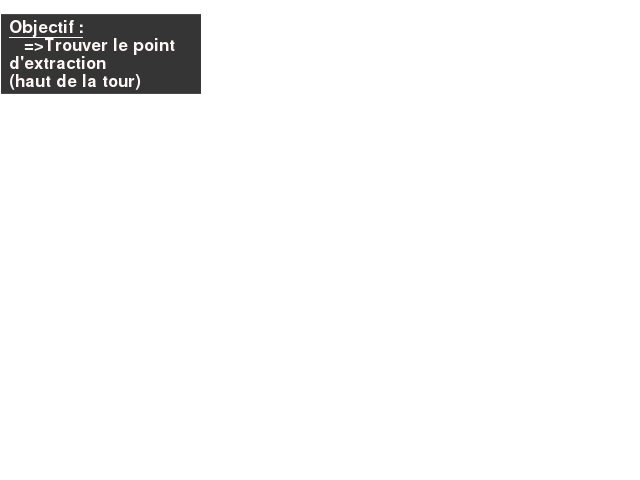
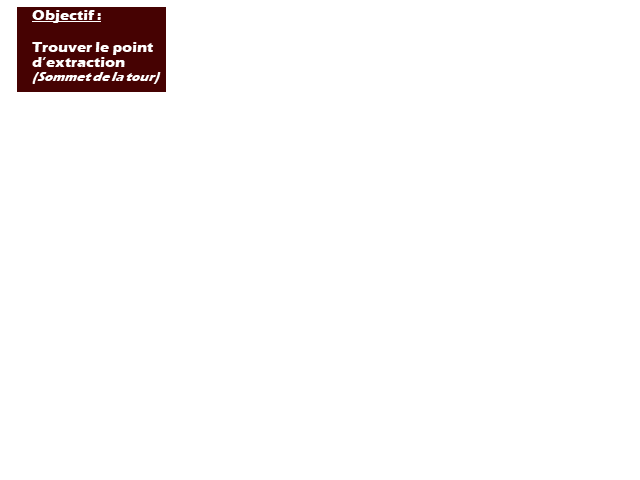
Auto stash before revert of "Merge remote-tracking branch 'origin/new_monsters_model' into new_monsters_model"
Add menu

Changed region(s): [[0.0, 0.0, 0.3125, 0.2188]]

diff --git a/src/main.cpp b/src/main.cpp
@@ -61,9 +61,10 @@ void moveCameraControl(IrrlichtDevice *device,
 
     }
 }
-static void create_window_pnj_follow()
+static void create_window_pnj_follow(EventReceiver *receiver,ig::IGUIImage *objectif,iv::ITexture *objectif2_tex)
 {
-
+    receiver->show_menu = 2;
+    objectif->setImage(objectif2_tex);
 }
 
 static bool mission_reussie(pnj& pnj)
@@ -214,6 +215,7 @@ int main()
     iv::ITexture *gameover_screen_tex = driver->getTexture("../data/gameover_screen.png");
     iv::ITexture *objectif1_tex = driver->getTexture("../data/objectif1.png");
     iv::ITexture *objectif2_tex = driver->getTexture("../data/objectif2.png");
+    iv::ITexture *menu_tex = driver->getTexture("../data/first_menu.png");
 
 
     // Création des places pour les chiffres
@@ -229,7 +231,9 @@ int main()
 
 
     ig::IGUIImage *bloody_screen   = gui->addImage(ic::rect<s32>(0,0, WIDTH_WINDOW,HEIGHT_WINDOW)); bloody_screen->setScaleImage(true);
-    ig::IGUIImage *objectif   = gui->addImage(ic::rect<s32>(0,0, WIDTH_WINDOW,HEIGHT_WINDOW)); bloody_screen->setScaleImage(true);
+    ig::IGUIImage *objectif   = gui->addImage(ic::rect<s32>(0,0, WIDTH_WINDOW,HEIGHT_WINDOW)); objectif->setScaleImage(true);
+    ig::IGUIImage *menu   = gui->addImage(ic::rect<s32>(0,0, WIDTH_WINDOW,HEIGHT_WINDOW)); menu->setScaleImage(true);
+
 
     //create_GUI_munition(gui,munition_10,munition_1,stock_10,stock_1,slash);
 
@@ -340,163 +344,184 @@ int main()
 
     while(device->run())
     {
-        for(u32 i = 0; i<NB_ENEMY_MAX; i++){
-            enemies[i].handle_walking();
-        }
-
-        //set image for the "viseur"
-
-       ig::IGUIImage *scope = gui->addImage(ic::rect<s32>(driver->getScreenSize().Width/2 -15,driver->getScreenSize().Height/2-15,  driver->getScreenSize().Width/2+15,driver->getScreenSize().Height/2+15)); scope->setScaleImage(true);
-
-        scope->setImage(scope_tex);
-        if(main_character.getReloading_cooldown()>0 || main_character.get_nb_munition() == 0){
-            scope_tex= driver->getTexture("../data/scope_not.png");
-        }
-        else{
-            scope_tex= driver->getTexture("../data/scope.png");
-
-        }
-
-        is_attacking(main_character, textures, receiver, compteur_attack);
-        if(main_character.getHealth_point() != 0)
-        {
-            moveCameraControl(device,main_character.body, receiver);
-            receiver.keyboard_handler(false, follow);
-        }
-        else
-            receiver.keyboard_handler(true, follow);
-
         driver->beginScene(true, true, iv::SColor(100,150,200,255));
-        if(!main_character.is_reloading()){
-            int mouse_x, mouse_y;
-            if (receiver.is_mouse_pressed(mouse_x, mouse_y))
+
+        if(receiver.show_menu == 0){
+            menu->setVisible(false);
+            for(u32 i = 0; i<NB_ENEMY_MAX; i++){
+                enemies[i].handle_walking();
+            }
+
+            //set image for the "viseur"
+
+            ig::IGUIImage *scope = gui->addImage(ic::rect<s32>(driver->getScreenSize().Width/2 -15,driver->getScreenSize().Height/2-15,  driver->getScreenSize().Width/2+15,driver->getScreenSize().Height/2+15)); scope->setScaleImage(true);
+
+            scope->setImage(scope_tex);
+            if(main_character.getReloading_cooldown()>0 || main_character.get_nb_munition() == 0){
+                scope_tex= driver->getTexture("../data/scope_not.png");
+            }
+            else{
+                scope_tex= driver->getTexture("../data/scope.png");
+
+            }
+
+            is_attacking(main_character, textures, receiver, compteur_attack);
+            if(main_character.getHealth_point() != 0)
             {
-                if (receiver.button_pressed != last_attack && receiver.button_pressed == true)
-                    attack_one_tic = true;
-                if(attack_one_tic && main_character.get_nb_munition() > 0)
+                moveCameraControl(device,main_character.body, receiver);
+                receiver.keyboard_handler(false, follow);
+            }
+            else
+                receiver.keyboard_handler(true, follow);
+
+            if(!main_character.is_reloading()){
+                int mouse_x, mouse_y;
+                if (receiver.is_mouse_pressed(mouse_x, mouse_y))
                 {
-                    ic::line3d<f32> ray;
-                    ray = collision_manager->getRayFromScreenCoordinates(ic::position2d<s32>(mouse_x, mouse_y));
-                    ic::vector3df intersection;
-                    ic::triangle3df hit_triangle;
-                    is::ISceneNode *selected_scene_node =
-                            collision_manager->getSceneNodeAndCollisionPointFromRay(
-                                ray,
-                                intersection, // On récupère ici les coordonnées 3D de l'intersection
-                                hit_triangle, // et le triangle intersecté
-                                0); // On ne veut que des noeuds avec cet identifiant
-                    const u32 selected_scene_node_id = selected_scene_node->getID();
+                    if (receiver.button_pressed != last_attack && receiver.button_pressed == true)
+                        attack_one_tic = true;
+                    if(attack_one_tic && main_character.get_nb_munition() > 0)
+                    {
+                        ic::line3d<f32> ray;
+                        ray = collision_manager->getRayFromScreenCoordinates(ic::position2d<s32>(mouse_x, mouse_y));
+                        ic::vector3df intersection;
+                        ic::triangle3df hit_triangle;
+                        is::ISceneNode *selected_scene_node =
+                                collision_manager->getSceneNodeAndCollisionPointFromRay(
+                                    ray,
+                                    intersection, // On récupère ici les coordonnées 3D de l'intersection
+                                    hit_triangle, // et le triangle intersecté
+                                    0); // On ne veut que des noeuds avec cet identifiant
+                        const u32 selected_scene_node_id = selected_scene_node->getID();
 
-                    if(selected_scene_node_id == MAP_ID){
-                        if (list_part_rempli){ list_part[i_FIFO].remove();}
-                        list_part[i_FIFO].addParticleToScene(smgr,main_character.body->getPosition(),intersection,selected_scene_node);
-                        i_FIFO++;
-                        if (i_FIFO==NB_PARTICULE_MAX){i_FIFO = 0; list_part_rempli = true;}
-
-                    }
-
-                    for(u32 i=0; i<NB_ENEMY_MAX; i++){
-                        if(enemies[i].node->getID() == selected_scene_node_id){
+                        if(selected_scene_node_id == MAP_ID){
                             if (list_part_rempli){ list_part[i_FIFO].remove();}
                             list_part[i_FIFO].addParticleToScene(smgr,main_character.body->getPosition(),intersection,selected_scene_node);
                             i_FIFO++;
                             if (i_FIFO==NB_PARTICULE_MAX){i_FIFO = 0; list_part_rempli = true;}
-                            enemies[i].being_hit(driver->getTexture("../data/red_texture.pcx"));
+
                         }
+
+                        for(u32 i=0; i<NB_ENEMY_MAX; i++){
+                            if(enemies[i].node->getID() == selected_scene_node_id){
+                                if (list_part_rempli){ list_part[i_FIFO].remove();}
+                                list_part[i_FIFO].addParticleToScene(smgr,main_character.body->getPosition(),intersection,selected_scene_node);
+                                i_FIFO++;
+                                if (i_FIFO==NB_PARTICULE_MAX){i_FIFO = 0; list_part_rempli = true;}
+                                enemies[i].being_hit(driver->getTexture("../data/red_texture.pcx"));
+                            }
+                        }
+
+                        attack_one_tic =false;
+                        main_character.use_munition();
+
                     }
 
-                    attack_one_tic =false;
-                    main_character.use_munition();
-
                 }
-
             }
-        }
 
-        for (int k = 0; k<NB_PARTICULE_MAX; k++){
-            list_part[k].frame_time_life--;
-            if(list_part[k].frame_time_life == 0)
-                list_part[k].remove();
-        }
+            for (int k = 0; k<NB_PARTICULE_MAX; k++){
+                list_part[k].frame_time_life--;
+                if(list_part[k].frame_time_life == 0)
+                    list_part[k].remove();
+            }
 
-        for(u32 i=0;i<NB_ENEMY_MAX ; i++){
-            enemies[i].make_blink(driver->getTexture("../data/blue_texture.pcx"));
-            enemies[i].attack(&main_character);
-        }
+            for(u32 i=0;i<NB_ENEMY_MAX ; i++){
+                enemies[i].make_blink(driver->getTexture("../data/blue_texture.pcx"));
+                enemies[i].attack(&main_character);
+            }
 
-        main_character.invincibility_counting(textures);
-        last_attack = receiver.button_pressed;
-
+            main_character.invincibility_counting(textures);
+            last_attack = receiver.button_pressed;
 
 
-        // Set image2D
-        munition_10->setImage(digits[(main_character.get_nb_munition() / 10) % 10]);
-        munition_1->setImage(digits[(main_character.get_nb_munition() / 1) % 10]);
 
-        stock_10->setImage(digits[(main_character.get_nb_stock() / 10) % 10]);
-        stock_1->setImage(digits[(main_character.get_nb_stock() / 1) % 10]);
+            // Set image2D
+            munition_10->setImage(digits[(main_character.get_nb_munition() / 10) % 10]);
+            munition_1->setImage(digits[(main_character.get_nb_munition() / 1) % 10]);
 
-        slash->setImage(slash_tex);
-        //objectif->setImage(objectif1_tex);
+            stock_10->setImage(digits[(main_character.get_nb_stock() / 10) % 10]);
+            stock_1->setImage(digits[(main_character.get_nb_stock() / 1) % 10]);
 
-        switch(main_character.getHealth_point()){
-        case 2 :
-            bloody_screen->setVisible(true);
-            bloody_screen->setImage(bloody_screen_tex);
-            break;
-        case 1 :
-            bloody_screen->setImage(bloodier_screen_tex);
-            break;
-        case 0 :
-            start_anim_death = true;
-            if(cpt_anim_death<=60)
-            {
-                if(start_anim_death == true && anim_death == false)
+            slash->setImage(slash_tex);
+            objectif->setImage(objectif1_tex);
+
+            switch(main_character.getHealth_point()){
+            case 2 :
+                bloody_screen->setVisible(true);
+                bloody_screen->setImage(bloody_screen_tex);
+                break;
+            case 1 :
+                bloody_screen->setImage(bloodier_screen_tex);
+                break;
+            case 0 :
+                start_anim_death = true;
+                if(cpt_anim_death<=60)
                 {
-                    main_character.setAnimation(main_character.DEATH);
-                    rohmer.setAnimation(rohmer.DEATH);
-                    anim_death = true;
+                    if(start_anim_death == true && anim_death == false)
+                    {
+                        main_character.setAnimation(main_character.DEATH);
+                        rohmer.setAnimation(rohmer.DEATH);
+                        anim_death = true;
+                    }
+                    cpt_anim_death++;
                 }
-                cpt_anim_death++;
+                else if(cpt_anim_death>50)
+                {
+                    bloody_screen->setImage(gameover_screen_tex);
+                    scope->setVisible(false);
+                    objectif->setVisible(false);
+                }
+                break;
+            default: bloody_screen->setVisible(false);
             }
-            else if(cpt_anim_death>50)
+
+            // Gestion suivi PNJ
+            compteur_follow++;
+            if(compteur_follow > 10)
+                meeting = is_character_meets_pnj(main_character,rohmer);
+            //std::cout<<"meeting: "<<meeting<<std::endl;
+            if(meeting == true && follow == false)
             {
-                bloody_screen->setImage(gameover_screen_tex);
-                scope->setVisible(false);
-                objectif->setVisible(false);
+                follow = true;
+                //create_window_pnj_follow(&receiver,objectif,objectif2_tex);
+                create_exit(smgr,texture_fin);
             }
-            break;
-        default: bloody_screen->setVisible(false);
-        }
-
-        // Gestion suivi PNJ
-        compteur_follow++;
-        if(compteur_follow > 10)
-            meeting = is_character_meets_pnj(main_character,rohmer);
-        //std::cout<<"meeting: "<<meeting<<std::endl;
-        if(meeting == true && follow == false)
-        {
-            follow = true;
-            create_window_pnj_follow();
-            create_exit(smgr,texture_fin);
-        }
 
 
-        if(follow == true && meeting == true)
-        {
-            rohmer.follow(main_character.body->getAbsolutePosition(),main_character.body->getRotation());
-        }
-        if(meeting == false && follow == true)
-        {
-            rohmer.setAnimation(rohmer.STAND);
-            follow = false;
-        }
-        if(mission_reussie(rohmer))
-        {
-            //std::cout<<"FIN"<<std::endl;
-        }
+            if(follow == true && meeting == true)
+            {
+                rohmer.follow(main_character.body->getAbsolutePosition(),main_character.body->getRotation());
+            }
+            if(meeting == false && follow == true)
+            {
+                rohmer.setAnimation(rohmer.STAND);
+                follow = false;
+            }
+            if(mission_reussie(rohmer))
+            {
+                //std::cout<<"FIN"<<std::endl;
+            }
 
+        }
+        if (receiver.show_menu == 1){
+            menu->setVisible(true);
+            menu->setImage(menu_tex);
+            receiver.keyboard_handler(false, follow);
+        }
+        if (receiver.show_menu == 2){
 
+            menu->setVisible(true);
+            menu->setImage(menu_tex);
+            receiver.keyboard_handler(true, follow);
+            receiver.show_menu == 0; //A ENLEVER APRES
+
+        }
+        if (receiver.show_menu == 3){
+            menu->setImage(menu_tex);
+            receiver.keyboard_handler(false, follow);
+
+        }
         // Dessin de la scène :
         smgr->drawAll();
         gui->drawAll();

diff --git a/src/events.cpp b/src/events.cpp
@@ -37,7 +37,8 @@ bool EventReceiver::keyboard_handler(bool death, bool follow)
 
     if(is_running) vitesse_deplacement = 3.7f;
     else vitesse_deplacement = 2.0f;
-
+    if(IsKeyPressed(KEY_RETURN))
+        show_menu =0;
     if(IsKeyDown(KEY_KEY_R)){ // Recharge
         personnage->reload();
     }

diff --git a/src/events.hpp b/src/events.hpp
@@ -58,7 +58,7 @@ public:
 
     bool attack = false;
     bool attack_inter = false;
-
+    int show_menu = 1;
     f32 rotation_cam =0.0f;
     irr::scene::IAnimatedMeshSceneNode *node;
     Character *personnage;
